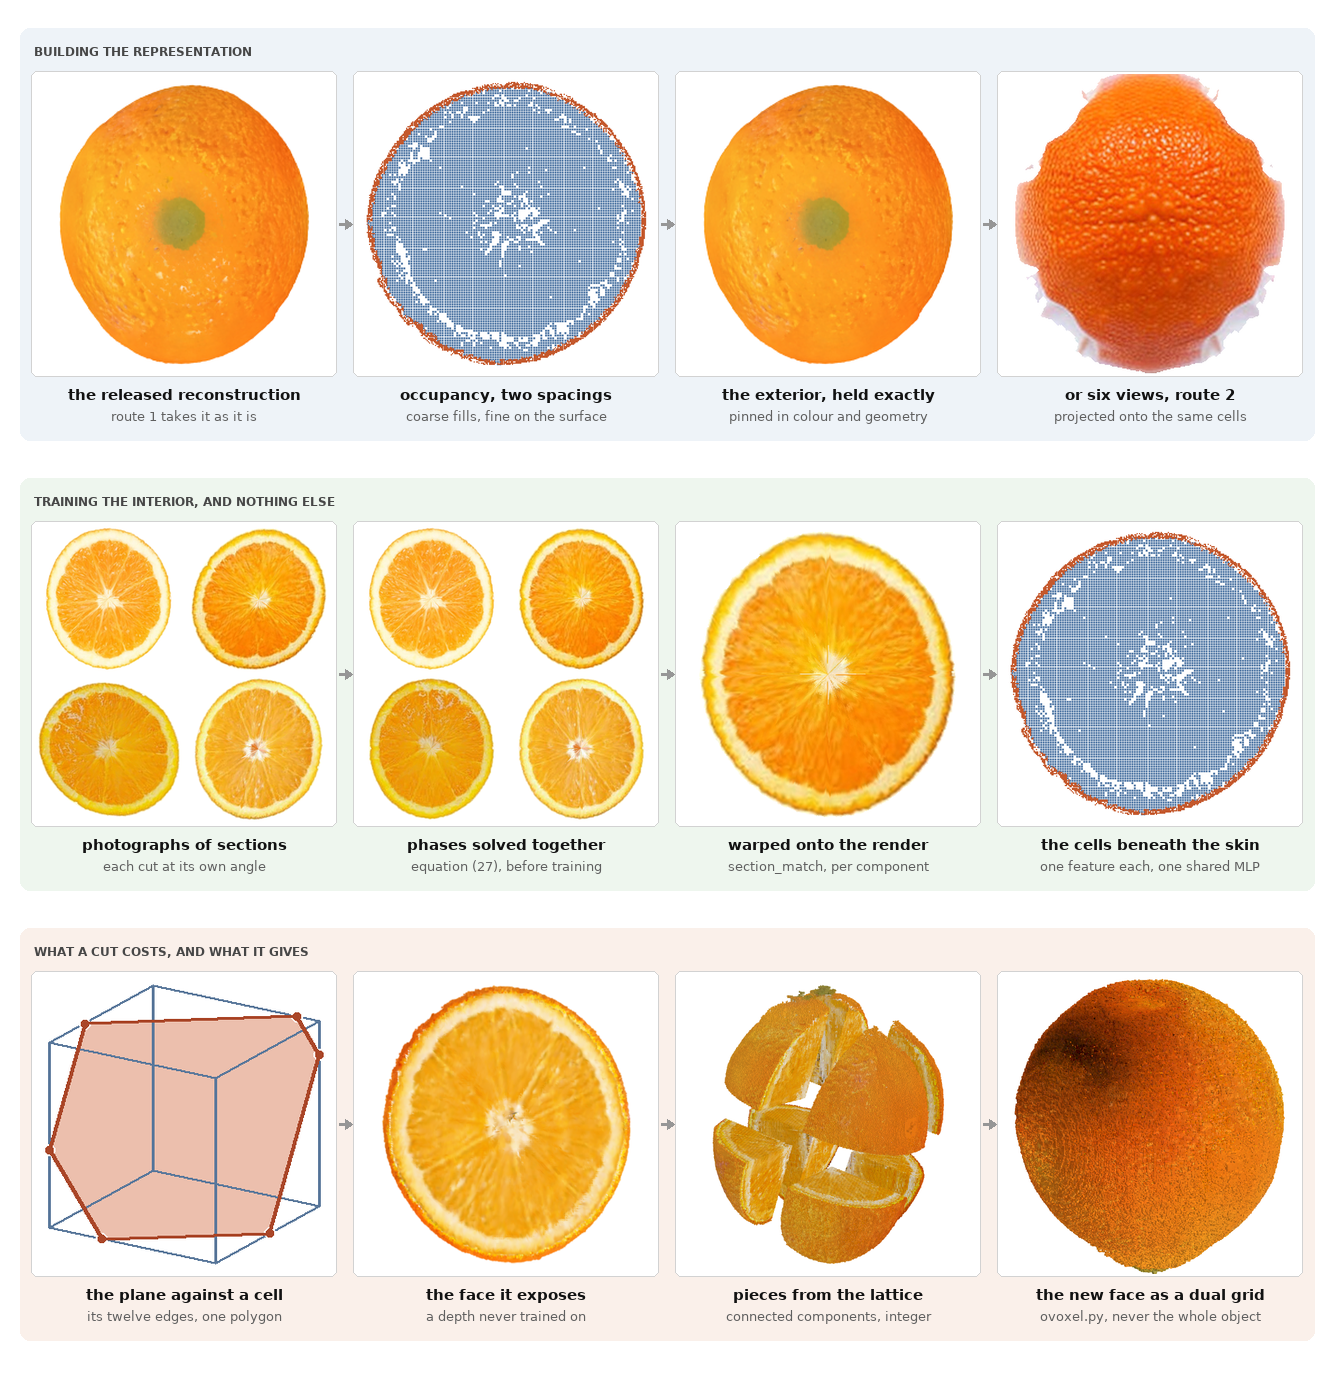
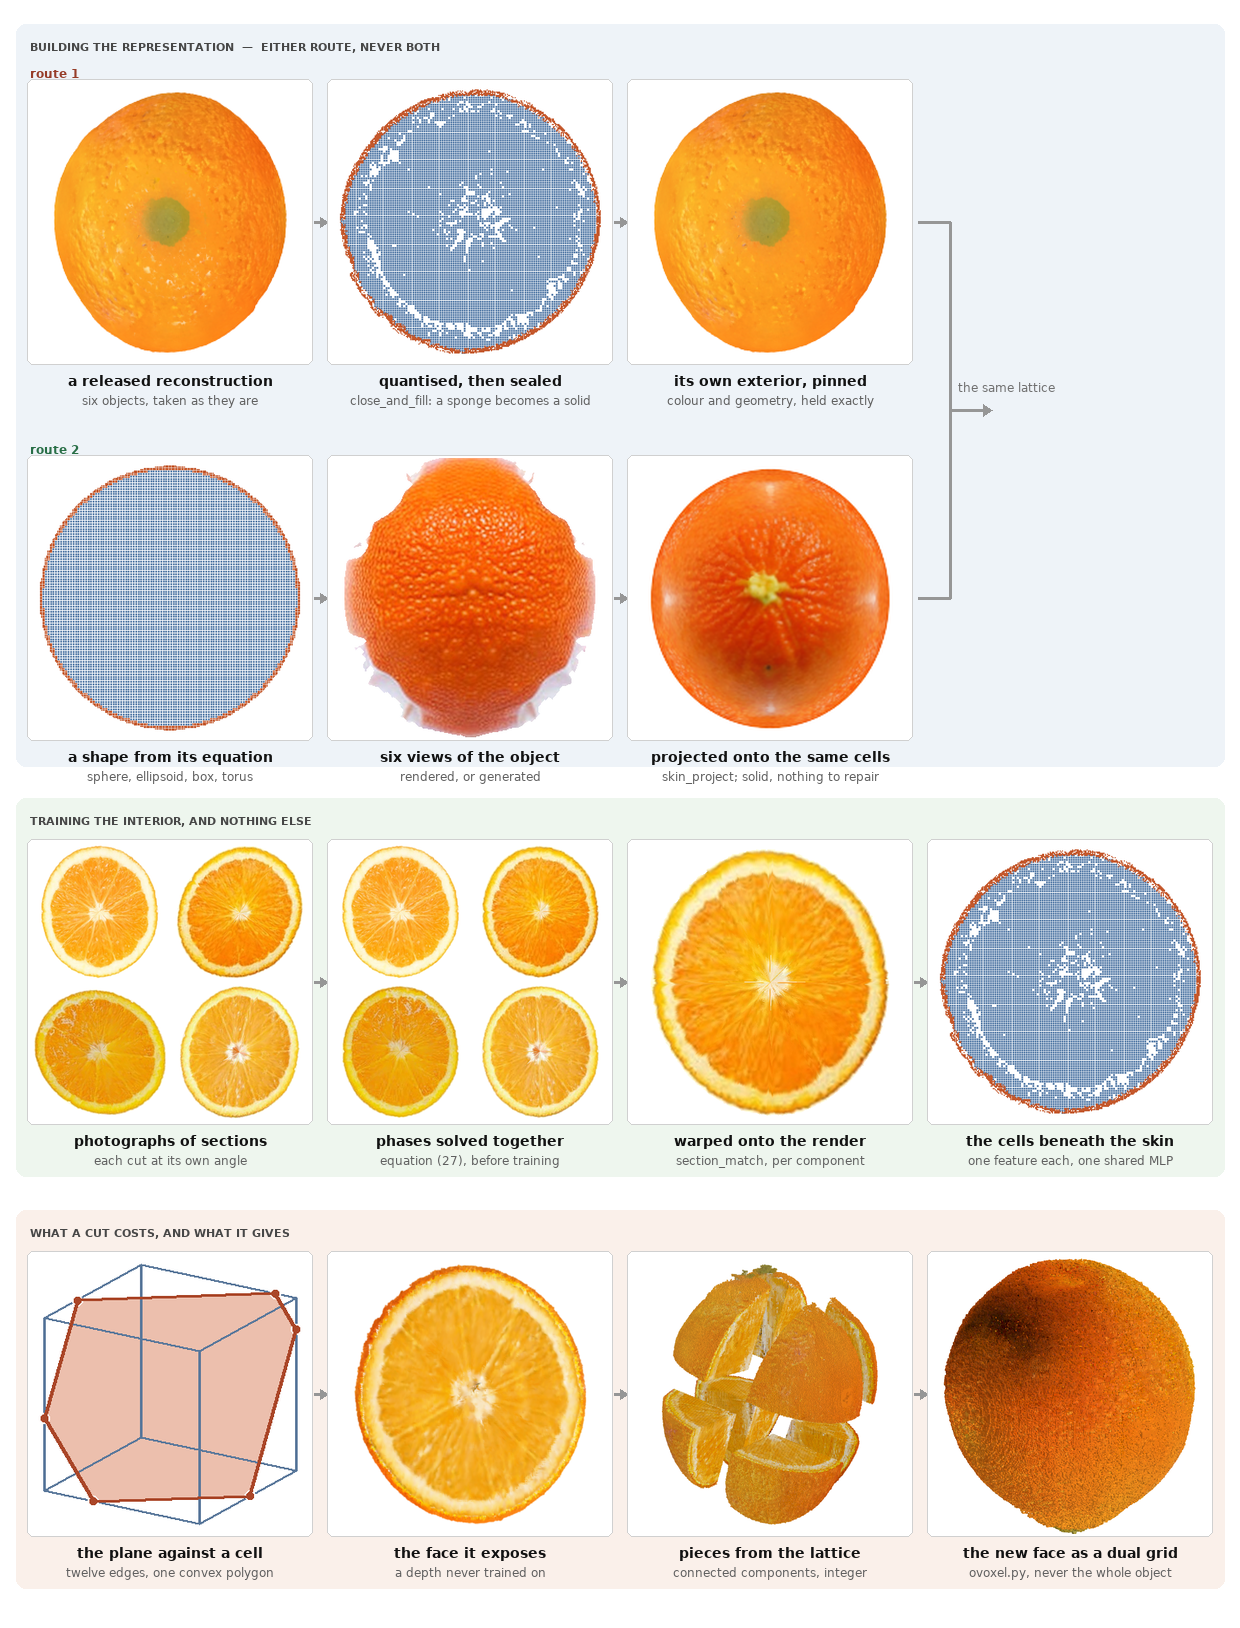
Figure 2: the two routes are a branch, not a chain
I had drawn them as one left-to-right sequence, which says the six views are projected onto an
exterior that was already pinned from a reconstruction. They are alternatives: an object takes
one route or the other, and which one is a property of its source file.

Two rows now, labelled and converging on the same lattice, and the same orange on both so the
comparison is real. It shows something worth showing: route 1's occupancy is full of white
holes, which is what quantising a reconstruction leaves and what close_and_fill exists to seal,
and route 2's is solid, because asking whether a point is inside a shape cannot leave one.

diff --git a/index.html b/index.html
@@ -400,21 +400,21 @@ around.</p>
 
 <figure style="margin:18px 0 30px">
   <img src="assets/pipeline.png" style="width:100%;border-radius:4px"
-       alt="the orange through every stage: reconstruction, occupancy at two spacings, exterior, six views, a section photograph, the closed-form cut, the exposed face, the pieces, and the dual grid">
+       alt="the two routes side by side, the training that follows, and what a cut produces">
   <figcaption><span class="fnum">Figure 2</span><br>One object through the whole method, every
-  panel rendered from the run this page reports. <b>Above:</b> the reconstruction is quantised
-  onto an occupancy at two spacings &mdash; coarse fills the volume, fine sits on the surface, and
-  which cells those are is decided by the shape rather than by a radius &mdash; and the exterior
-  is then held exactly where it arrived, from the reconstruction on the first route or from six
-  views on the second. <b>Middle:</b> the photographs are each cut at their own angle and nobody
-  posed them; equation&nbsp;(27) solves the phases and the assignment together before training,
-  and <code>section_match</code> warps each one onto the silhouette the cutting plane renders, per
-  connected component. Only the cells beneath the pinned skin learn, one feature each through one
-  shared decoder. <b>Below:</b> a cut is the plane against a crossed cell's twelve edges &mdash;
-  six intersections here, one convex polygon, computed and not approximated &mdash; the face it
-  exposes at a depth training never sampled, the pieces from the lattice's own adjacency as
-  integer operations, and the newly exposed face, and only that face, converted to a dual
-  grid.</figcaption>
+  panel rendered from the run this page reports. <b>Above,</b> the two routes, which are
+  alternatives and not stages: route 1 quantises a released reconstruction and seals what
+  quantisation left &mdash; the white in that panel is the holes &mdash; and pins the exterior
+  that came with it; route 2 asks whether each cell's centre is inside a shape it has the equation
+  for, which leaves nothing to repair, and projects six views onto the same cells. Both arrive at
+  the same lattice and the pipeline is one pipeline from there. <b>Middle,</b> the photographs are
+  each cut at their own angle and nobody posed them; equation&nbsp;(27) solves the phases and the
+  assignment together before training, <code>section_match</code> warps each onto the silhouette
+  the cutting plane renders, and only the cells beneath the pinned skin learn. <b>Below,</b> a cut
+  is the plane against a crossed cell's twelve edges &mdash; six intersections here, one convex
+  hexagon, computed and not approximated &mdash; the face it exposes at a depth training never
+  sampled, the pieces from the lattice's own adjacency, and the newly exposed face, and only that
+  face, converted to a dual grid.</figcaption>
 </figure>
 
 
